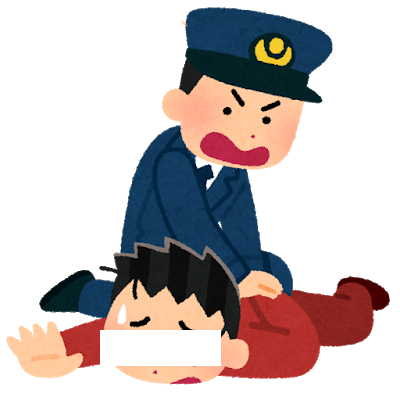
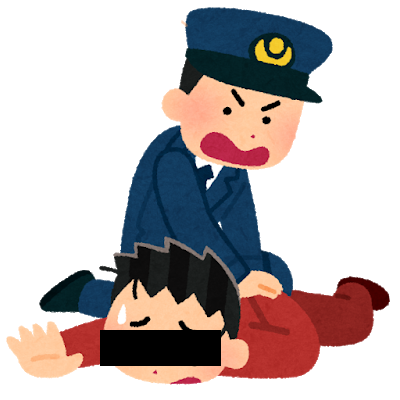
mesen

Changed region(s): [[0.24, 0.81, 0.57, 0.93]]

diff --git a/class_three/3rd_class/mesen.py b/class_three/3rd_class/mesen.py
@@ -1,7 +1,7 @@
 import cv2
 import numpy as np
 def mesen(image,height,width):
-    cv2.rectangle(image,(100,330),(220,365),(0,0,0),thickness=-1)
+    cv2.rectangle(image,(100,330),(220,365),(0,0,0,255),thickness=-1)
     return image
 
 image = cv2.imread('./hannin.png',-1)
